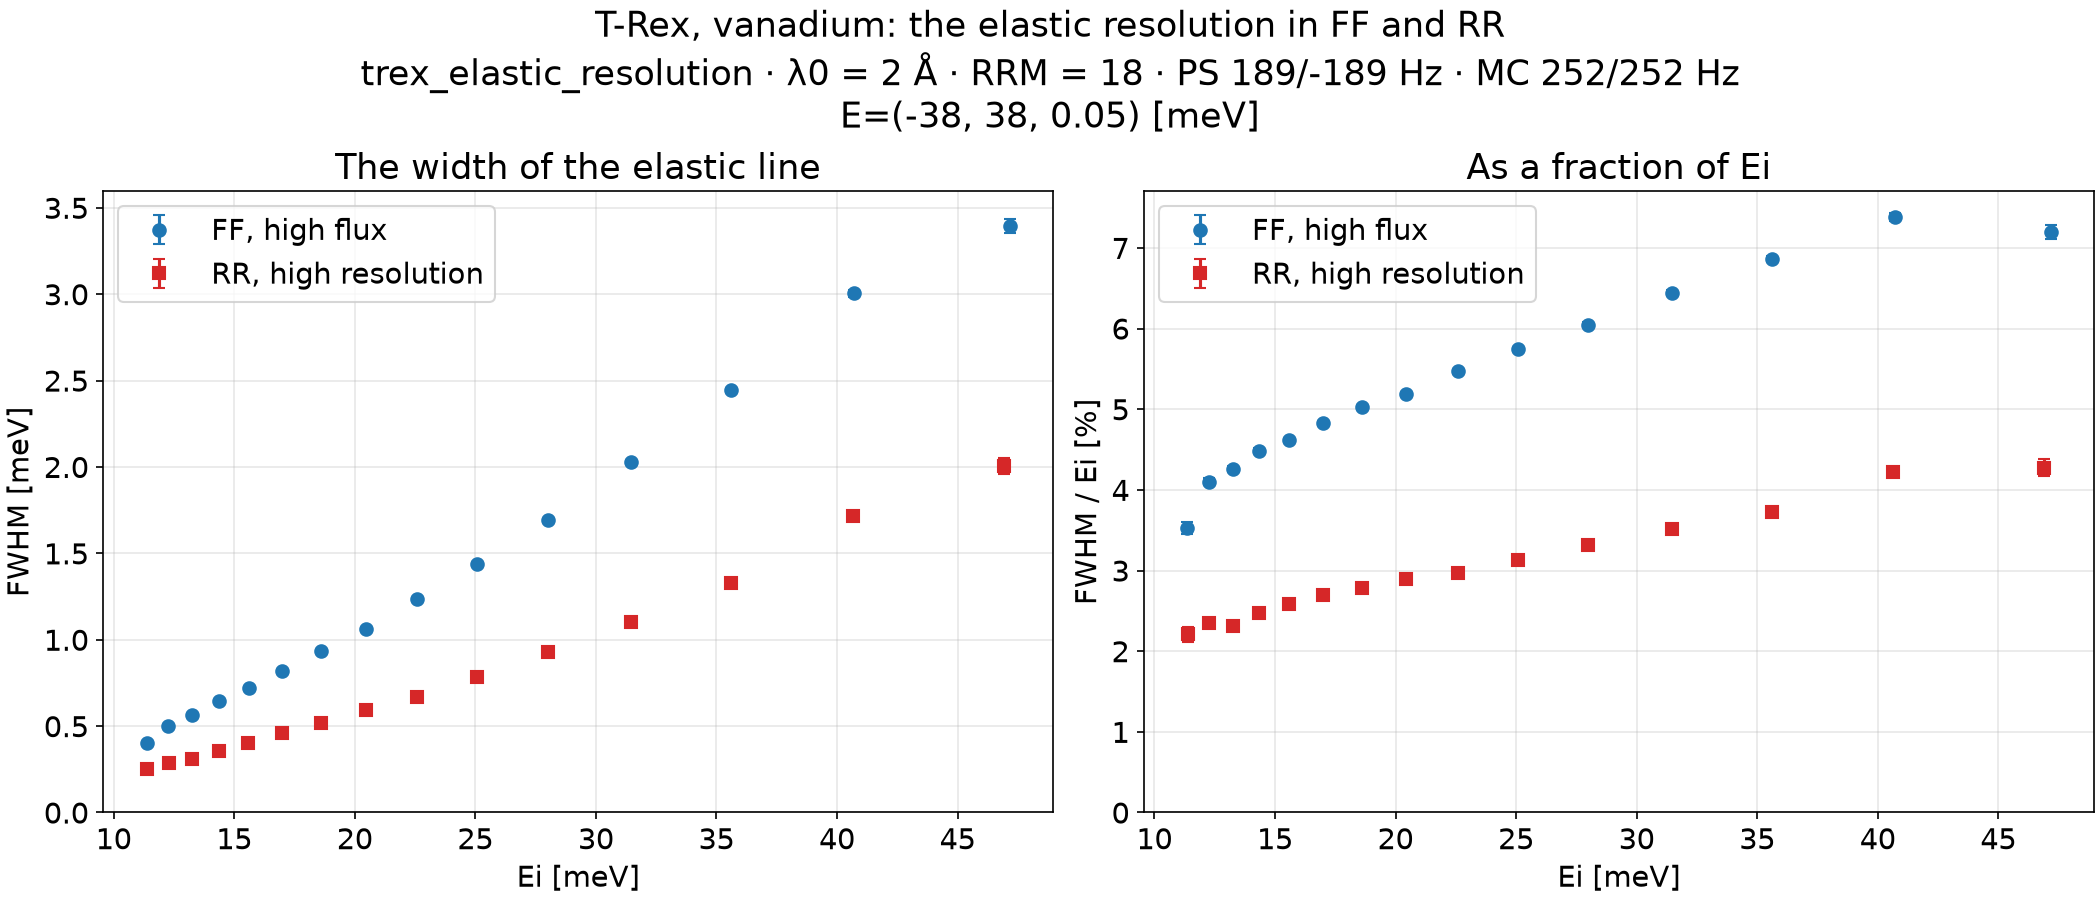
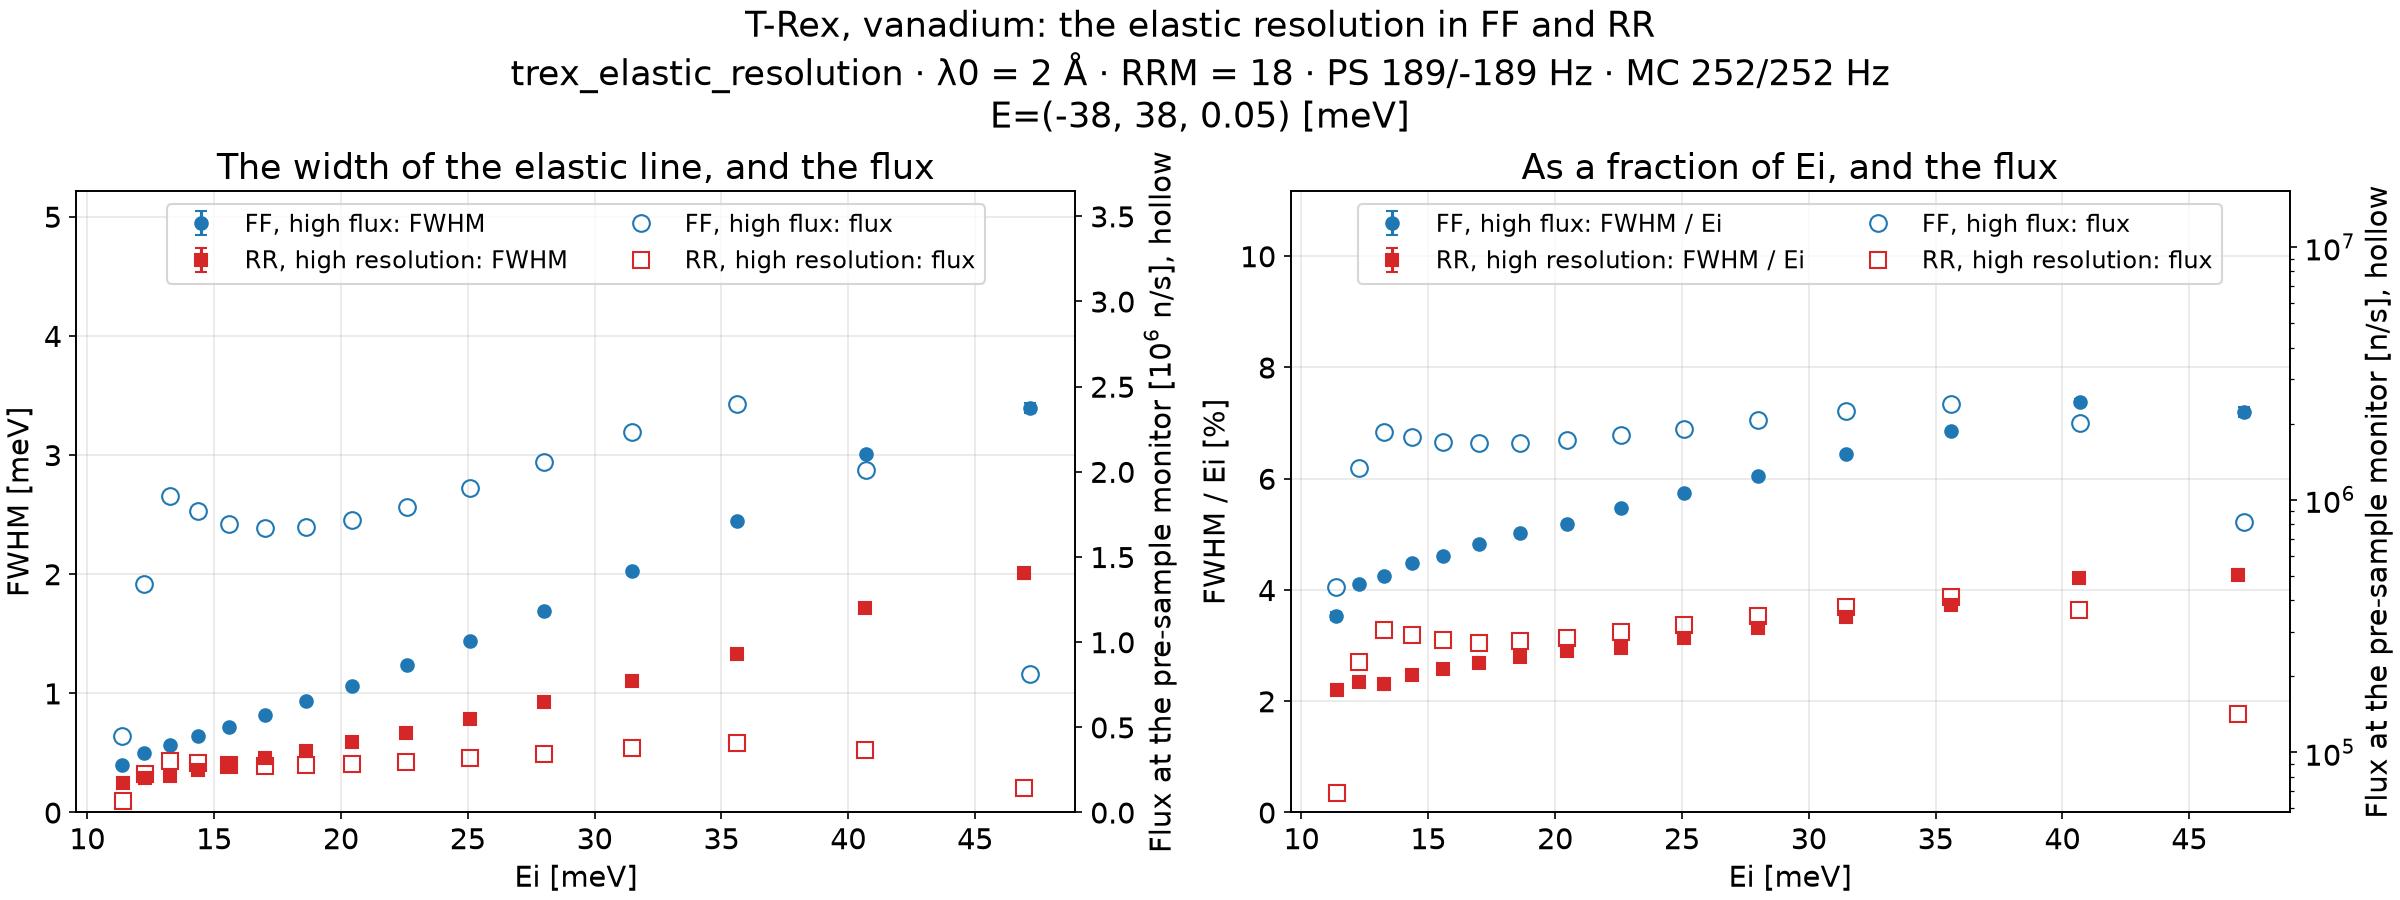
Draw the flux of each sub-pulse beside the FWHM of vanadium in FF and RR, linear and log

diff --git a/src/mcdgs/diagnostics/trex/elastic_resolution_incoherent.py b/src/mcdgs/diagnostics/trex/elastic_resolution_incoherent.py
@@ -81,6 +81,7 @@ SHIFT = 0.4  # each sub-pulse is lifted above the one below by this much of the 
 FONT_SIZE = 14  # pt, of every text of the figure
 MAP_Q_STEP = 0.05  # 1/Å, the bin width in |Q| of the S(Q,E) maps; in E, ENERGY_STEP
 MAP_COLUMNS = 3  # the maps of the sub-pulses, in rows of this many
+LEGEND_ROOM = 1.45  # the y axes of plot_resolutions reach this far past their data: the legend
 # the top of the color scale of the maps, as a percentile of the bins with neutrons: a bin on the
 # edge of the coverage, with little of it, can stand far above the rest
 MAP_PERCENTILE = 99.9
@@ -727,16 +728,27 @@ def resolution_table(lines: dict[Mode, sc.Dataset], pulses: dict[Mode, sc.DataAr
     return cli.markdown_table(header, rows)
 
 
-def plot_resolutions(lines: dict[Mode, sc.Dataset], spectra: sc.DataArray, title: str) -> Figure:
-    """Draw the FWHM of the elastic line of each sub-pulse against its Ei, in every mode.
+def plot_resolutions(
+    lines: dict[Mode, sc.Dataset],
+    pulses: dict[Mode, sc.DataArray],
+    spectra: sc.DataArray,
+    title: str,
+) -> Figure:
+    """Draw the FWHM of the elastic line and the flux of each sub-pulse against Ei, in every mode.
 
     The first panel draws the FWHM, the second the FWHM as a fraction of Ei, each a point with
-    the error of the fit of :func:`fit_elastic_lines`, not joined.
+    the error of the fit of :func:`fit_elastic_lines`, not joined. Both panels also draw the
+    flux of each sub-pulse at the pre-sample monitor, hollow, on a second axis: the price of the
+    resolution, on a linear scale in the first panel and a log scale in the second. The flux has
+    no error bars: :func:`.find_patches` sums the intensity of the monitor without its errors,
+    which are small from 1e9 rays.
 
     Parameters
     ----------
     lines:
         The fits of :func:`fit_elastic_lines`, by mode.
+    pulses:
+        The sub-pulses of :func:`.sample_runs.subpulse_timing`, by mode, with their flux.
     spectra:
         The spectra the lines are fitted to, for the bins under the title, :func:`.bins_title`.
     title:
@@ -748,22 +760,64 @@ def plot_resolutions(lines: dict[Mode, sc.Dataset], spectra: sc.DataArray, title
         The figure.
     """
     with plt.rc_context({"font.size": FONT_SIZE}):
-        fig, (absolute, relative) = plt.subplots(1, 2, figsize=(14, 6), layout="constrained")
+        fig, (absolute, relative) = plt.subplots(1, 2, figsize=(16, 6), layout="constrained")
         fig.suptitle(f"{title}\n{bins_title({'E': spectra.coords['energy_transfer']})}")
+        panels = {absolute: absolute.twinx(), relative: relative.twinx()}  # each with the flux
         for mode, color, marker in zip(lines, ("tab:blue", "tab:red"), ("o", "s")):
             ei = lines[mode].coords["incident_energy"].to(unit="meV").values
             fwhm = lines[mode]["fwhm"]
             error = np.sqrt(fwhm.variances)
             label = {"FF": "FF, high flux", "RR": "RR, high resolution"}.get(mode, mode)
-            style = {"color": color, "fmt": marker, "ms": 6, "capsize": 3, "label": label}
-            absolute.errorbar(ei, fwhm.values, yerr=error, **style)
-            relative.errorbar(ei, 100 * fwhm.values / ei, yerr=100 * error / ei, **style)
-        absolute.set(xlabel="Ei [meV]", ylabel="FWHM [meV]", title="The width of the elastic line")
-        relative.set(xlabel="Ei [meV]", ylabel="FWHM / Ei [%]", title="As a fraction of Ei")
-        for ax in (absolute, relative):
+            style = {"color": color, "fmt": marker, "ms": 6, "capsize": 3}
+            absolute.errorbar(ei, fwhm.values, yerr=error, label=f"{label}: FWHM", **style)
+            relative.errorbar(
+                ei,
+                100 * fwhm.values / ei,
+                yerr=100 * error / ei,
+                label=f"{label}: FWHM / Ei",
+                **style,
+            )
+            flux = pulses[mode].to(unit="1/s").values
+            flux_ei = pulses[mode].coords["incident_energy"].to(unit="meV").values
+            for flux_axis, scale in zip(panels.values(), (1e6, 1)):  # linear in 1e6 n/s
+                flux_axis.plot(
+                    flux_ei,
+                    flux / scale,
+                    linestyle="none",
+                    marker=marker,
+                    ms=8,
+                    markerfacecolor="none",
+                    color=color,
+                    label=f"{label}: flux",
+                )
+        absolute.set(
+            xlabel="Ei [meV]",
+            ylabel="FWHM [meV]",
+            title="The width of the elastic line, and the flux",
+        )
+        relative.set(
+            xlabel="Ei [meV]", ylabel="FWHM / Ei [%]", title="As a fraction of Ei, and the flux"
+        )
+        flux_label = "Flux at the pre-sample monitor [{}], hollow"
+        panels[absolute].set(ylabel=flux_label.format("$10^6$ n/s"), ylim=(0, None))  # linear
+        panels[relative].set(ylabel=flux_label.format("n/s"), yscale="log")
+        for ax, flux_axis in panels.items():
             ax.grid(True, alpha=0.3)
-            ax.set_ylim(bottom=0)
-            ax.legend()
+            ax.set_ylim(0, LEGEND_ROOM * ax.get_ylim()[1])
+            low, high = flux_axis.get_ylim()
+            if flux_axis.get_yscale() == "log":  # the same room, in decades
+                flux_axis.set_ylim(low, low * (high / low) ** LEGEND_ROOM)
+            else:
+                flux_axis.set_ylim(0, LEGEND_ROOM * high)
+            handles, labels = ax.get_legend_handles_labels()
+            flux_handles, flux_labels = flux_axis.get_legend_handles_labels()
+            flux_axis.legend(  # on the second axis, so that its points do not hide the legend
+                handles + flux_handles,
+                labels + flux_labels,
+                fontsize="small",
+                ncols=2,
+                loc="upper center",
+            )
     return fig
 
 
@@ -820,6 +874,7 @@ def analyze(out: Path | None = None, modes: tuple[Mode, ...] = MODES) -> list[Pa
         conditions = define_instrument().running_conditions().replace(f" · {modes[0]}", "")
         fig = plot_resolutions(
             lines,
+            fluxes,
             spectra,
             f"T-Rex, vanadium: the elastic resolution in {' and '.join(lines)}\n{conditions}",
         )

diff --git a/docs/instruments/trex/elastic-resolution-incoherent.md b/docs/instruments/trex/elastic-resolution-incoherent.md
@@ -179,11 +179,13 @@ differ by 0.6 % at most, 46.91 meV against 47.17 meV for the highest:
 
 --8<-- "docs/instruments/trex/figures/elastic-resolution-incoherent/trex_elastic_resolution_incoherent_rr_lines.txt"
 
-![The FWHM of the elastic line of each sub-pulse against its Ei, in FF and RR, and as a fraction of Ei](figures/elastic-resolution-incoherent/trex_elastic_resolution_incoherent_modes.png)
+![The FWHM of the elastic line of each sub-pulse against its Ei, in FF and RR, and as a fraction of Ei, each with the flux of each sub-pulse on a second axis](figures/elastic-resolution-incoherent/trex_elastic_resolution_incoherent_modes.png)
 
 `plot_resolutions` draws the FWHM of both modes against Ei, and as a fraction of Ei, each with
-the error of its fit; `resolution_table` gives them side by side, with the flux of each
-sub-pulse at the pre-sample monitor:
+the error of its fit. Both panels also draw the flux of each sub-pulse at the pre-sample
+monitor, hollow, on a second axis, linear in the first panel and log in the second, without
+error bars: the sub-pulses are found from the intensity of the monitor alone. `resolution_table`
+gives them side by side, with the flux of each sub-pulse at the pre-sample monitor:
 
 --8<-- "docs/instruments/trex/figures/elastic-resolution-incoherent/trex_elastic_resolution_incoherent_modes.txt"
 
